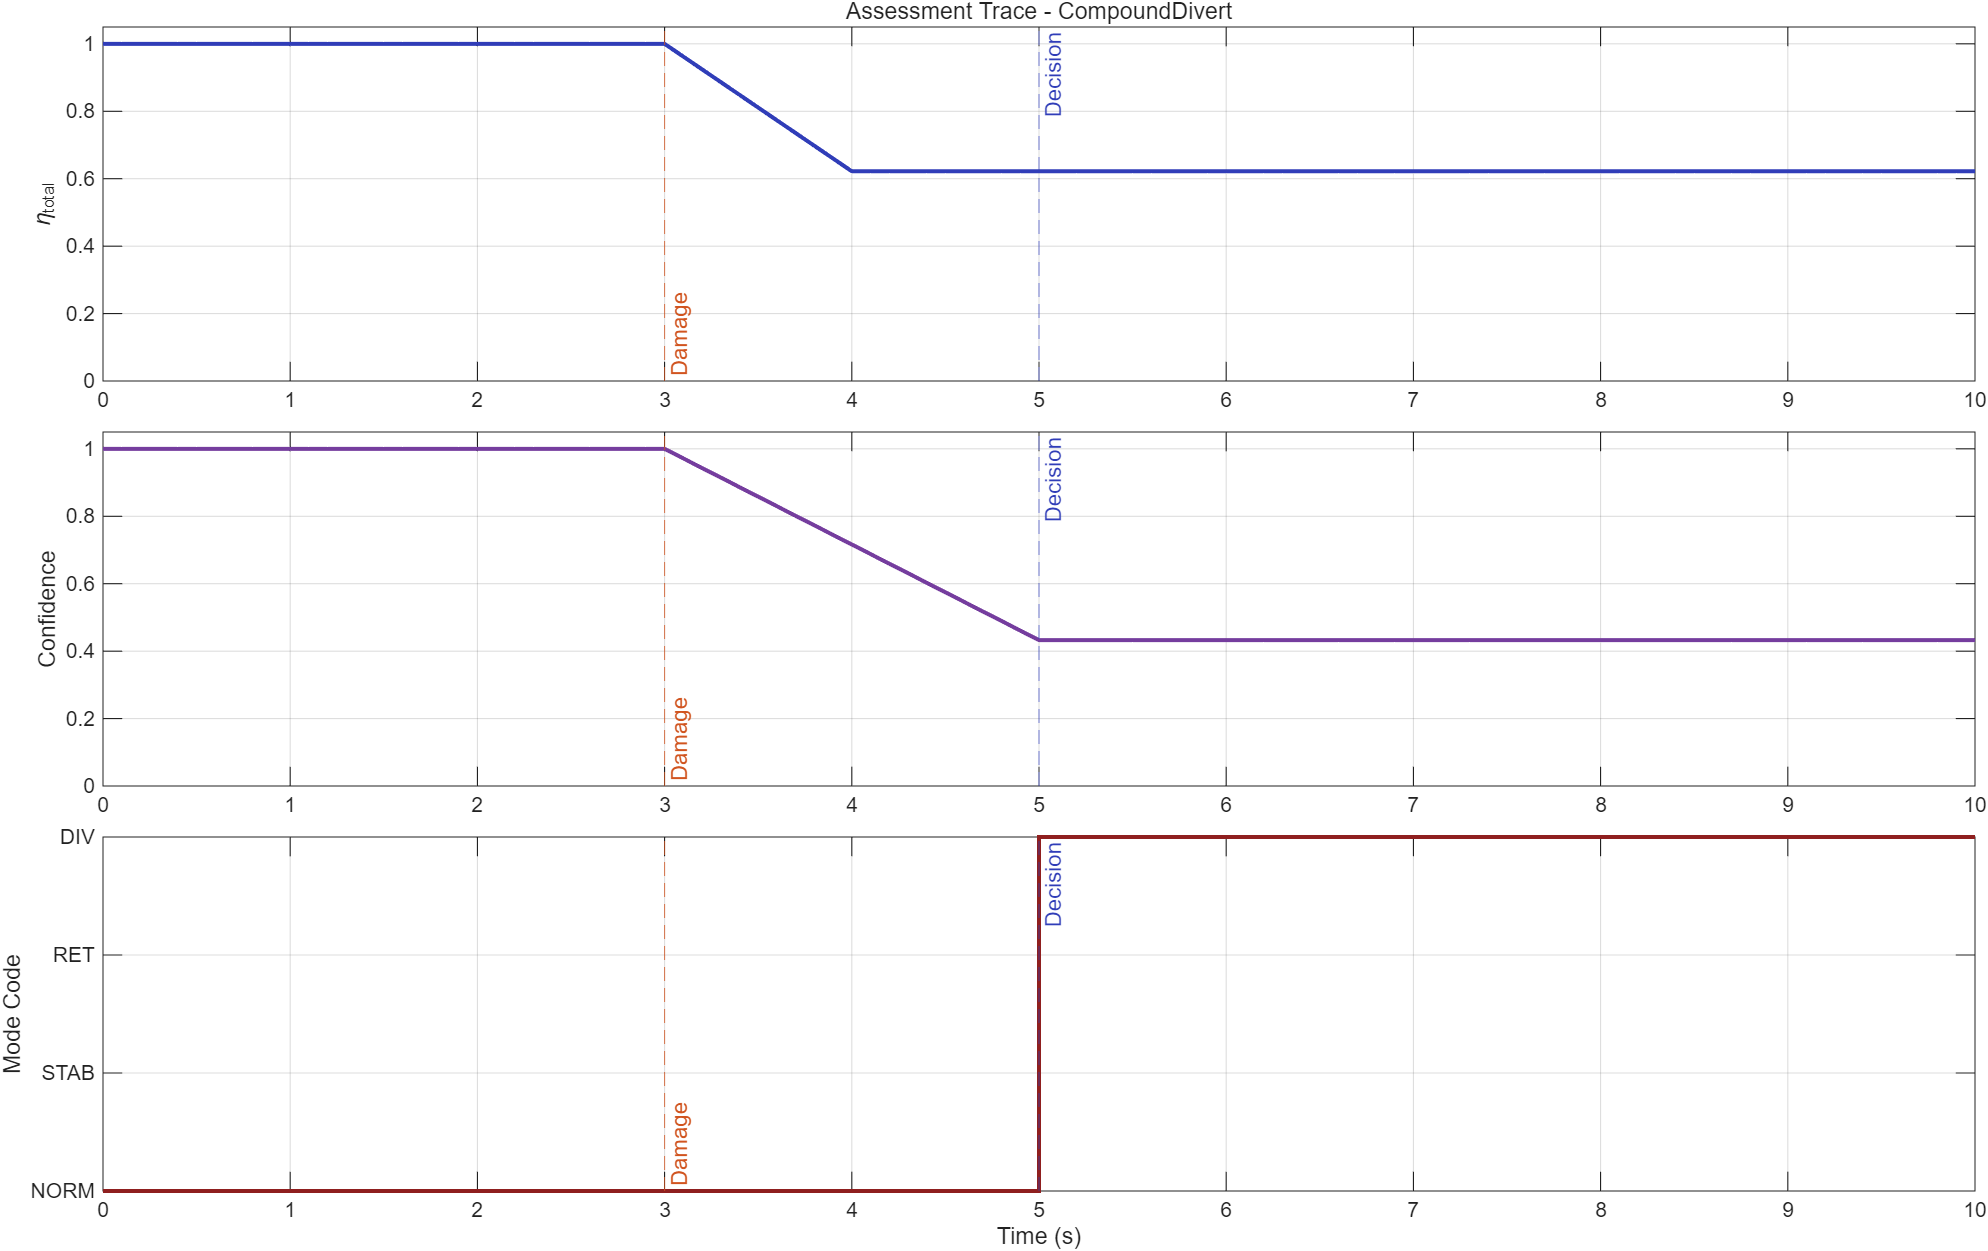
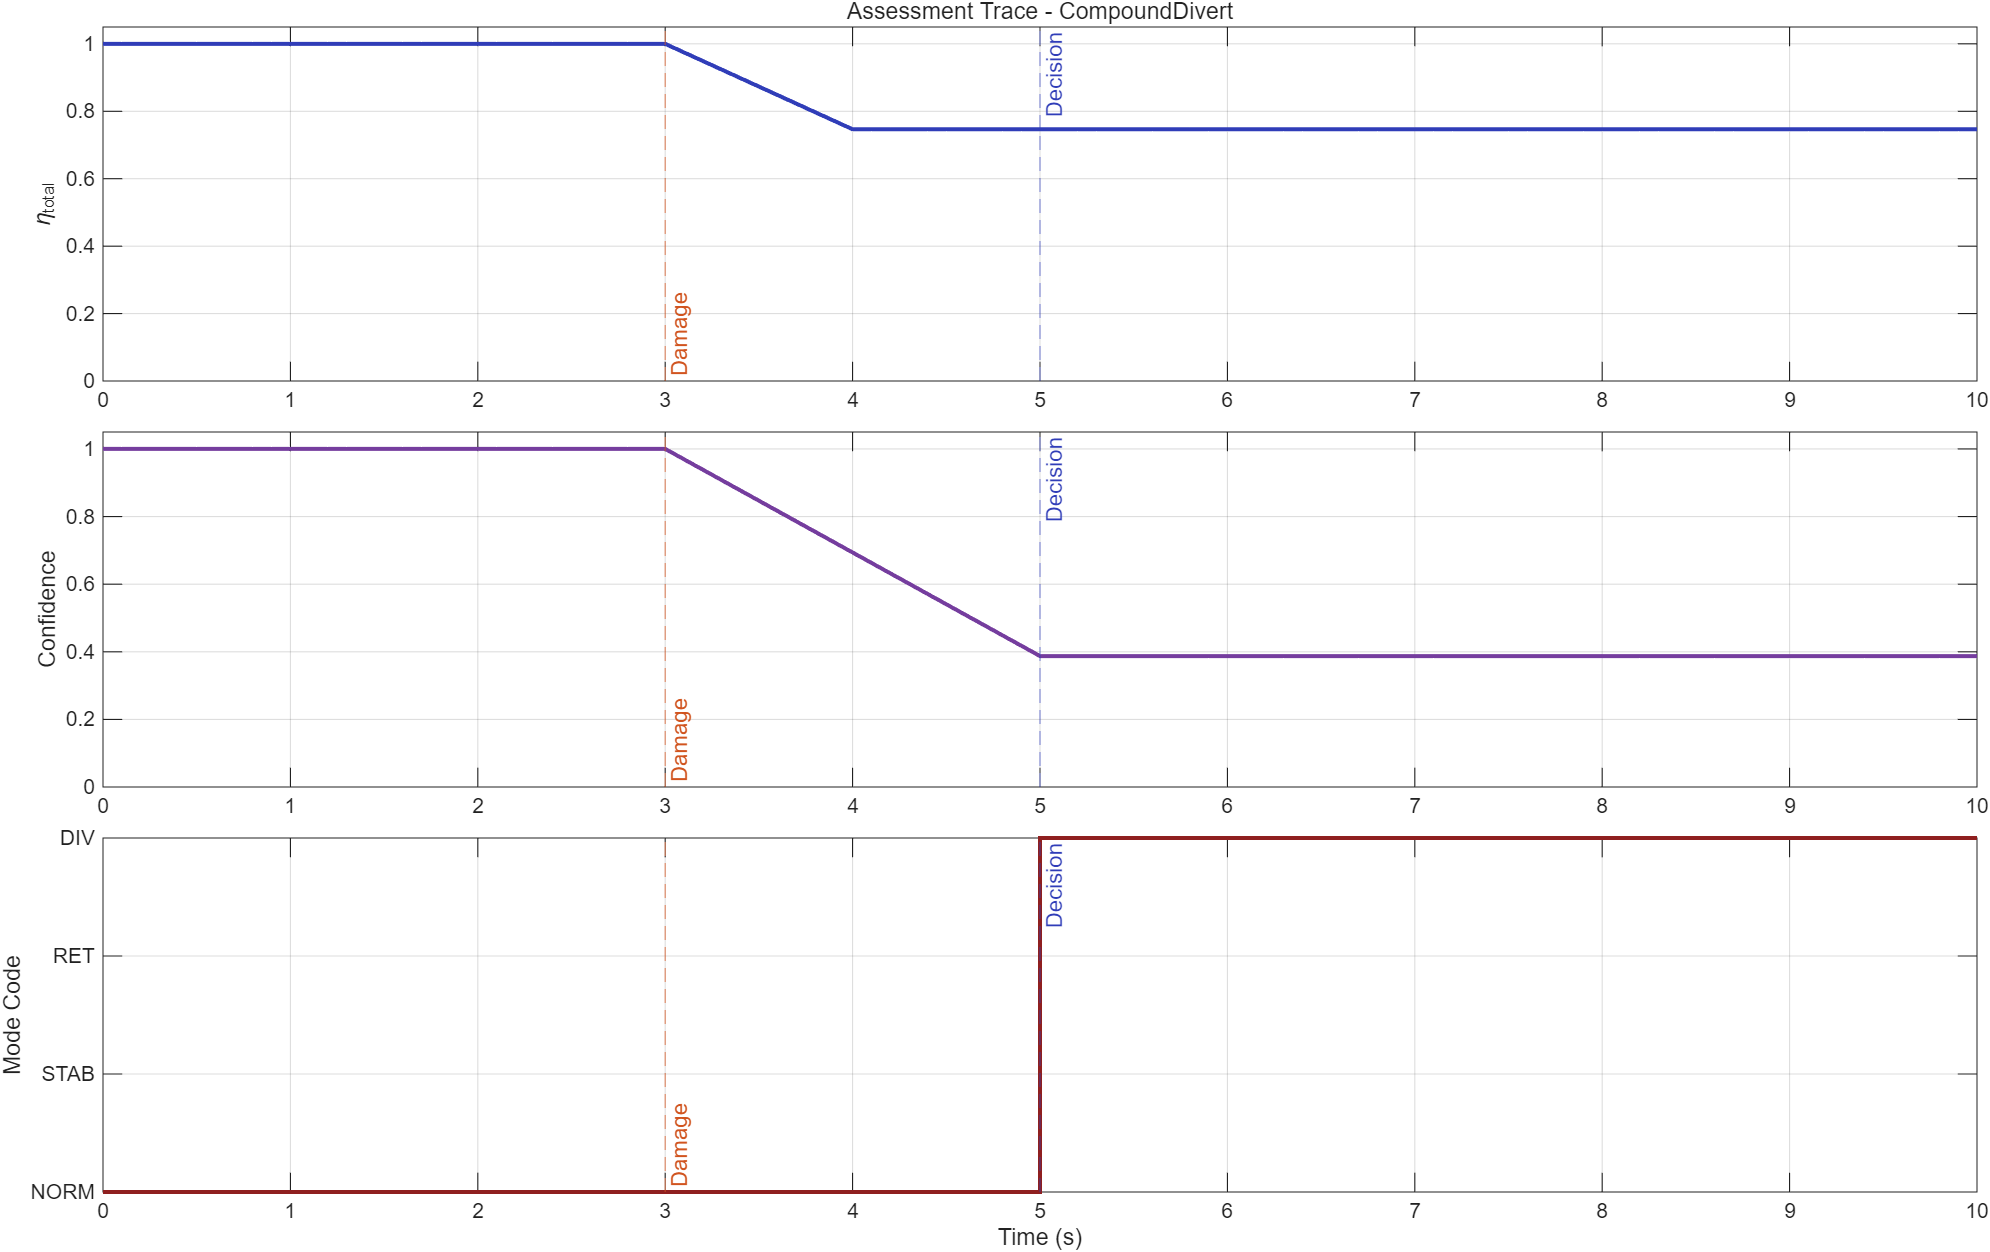
docs: sync §5 method and §7 structure across zh-CN and fr READMEs
The English README §5 and §7 were updated in the previous commit to point
at the new functions/{utils,dynamics,identifier,decision,simulink_bridges,
scenarios}/ subdirectory layout. The Chinese and French translations only
received the new Quick Start block in that pass. This commit brings their
§5 (Method) function references and §7 (Repository Structure) descriptions
in line with the actual on-disk layout.

Also refresh results/demo_figures/*.png from a re-run of run_demo_scenario.

diff --git a/README.fr.md b/README.fr.md
@@ -207,7 +207,7 @@ Ce vecteur est la source de tout le drame numérique du projet, ce qui a au moin
 
 Le projet utilise un prédicteur nominal simplifié pour estimer ce que l'avion **aurait dû faire** s'il était resté à peu près sain :
 
-- `functions/predict_nominal_response.m`
+- `functions/dynamics/predict_nominal_response.m`
 
 Ce n'est pas un observateur optimal rigoureux.  
 C'est plutôt l'équivalent de :
@@ -218,11 +218,11 @@ C'est plutôt l'équivalent de :
 
 Les résidus sont générés par :
 
-- `functions/compute_sensor_residuals.m`
+- `functions/dynamics/compute_sensor_residuals.m`
 
 Le filtrage des résidus est géré par :
 
-- `functions/filter_residual_sequence.m`
+- `functions/dynamics/filter_residual_sequence.m`
 
 Les canaux résiduels actuels incluent :
 
@@ -236,7 +236,7 @@ Les canaux résiduels actuels incluent :
 
 Point d'entrée de construction des caractéristiques :
 
-- `functions/build_identifier_features.m`
+- `functions/identifier/build_identifier_features.m`
 
 Modes représentatifs :
 
@@ -253,9 +253,9 @@ Modes représentatifs :
 
 Fonctions principales d'entraînement et d'inférence :
 
-- `functions/get_identifier_model_config.m`
-- `functions/train_damage_identifier.m`
-- `functions/run_damage_identifier.m`
+- `functions/identifier/get_identifier_model_config.m`
+- `functions/identifier/train_damage_identifier.m`
+- `functions/identifier/run_damage_identifier.m`
 
 Familles de modèles actuellement disponibles :
 
@@ -274,9 +274,9 @@ eta_hat = [eta_roll_hat, eta_pitch_hat, eta_yaw_hat, eta_total_hat]
 
 Chaîne centrale d'évaluation :
 
-- `functions/compute_control_authority_metrics.m`
-- `functions/evaluate_trim_feasibility.m`
-- `functions/decision_manager.m`
+- `functions/decision/compute_control_authority_metrics.m`
+- `functions/decision/evaluate_trim_feasibility.m`
+- `functions/decision/decision_manager.m`
 
 Modes de décision :
 
@@ -389,16 +389,40 @@ Les graphiques statistiques complémentaires restent dans `results/figures/`; le
   Modèle Simulink principal et interfaces de sous-systèmes.
 
 - `functions/`  
-  Sémantique du dommage, prédiction, traitement des résidus, construction des caractéristiques, identification, évaluation de la contrôlabilité et logique de décision.
+  Bibliothèque de fonctions, organisée par responsabilité :
+  - `functions/utils/` — petits utilitaires réutilisables (`clamp`,
+    `save_figure`, `get_project_params`, `project_root`,
+    `denormalize_targets`, `scenario_damage_severity`).
+  - `functions/dynamics/` — couche physique : `predict_nominal_response`,
+    `compute_sensor_residuals`, `filter_residual_sequence`,
+    `parse_damage_vector`, `map_damage_to_aero_effects`,
+    `damage_injection_interface`, `build_flight_condition`.
+  - `functions/identifier/` — caractéristiques, entraînement et inférence :
+    `build_identifier_features`, `train_damage_identifier`,
+    `run_damage_identifier`, `simulate_identifier_timeseries`,
+    `get_identifier_model_config`, `get_identifier_target_config`.
+  - `functions/decision/` — métriques de contrôlabilité, faisabilité de
+    l'équilibrage, gestionnaire de décision, pipeline d'évaluation en ligne.
+  - `functions/simulink_bridges/` — fonctions appelées depuis les blocs
+    Interpreted MATLAB Function du modèle Simulink (`damage_output_vector`,
+    `decision_command_vector`, `online_identifier_placeholder_vector`,
+    `simple_aircraft_force_moment_model`, `visualization_mode_proxy`).
+  - `functions/scenarios/` — constructeurs de scénarios partagés.
 
 - `scripts/`  
-  Points d'entrée pour génération de données, entraînement, évaluation, validation, visualisation et export de diagrammes.
+  Points d'entrée pour génération de données, entraînement, évaluation,
+  validation, visualisation, export de diagrammes et (`build_main_model`)
+  câblage du modèle Simulink.
 
 - `data/`  
-  Jeux de données de recherche générés.
+  Jeux de données de recherche. Les `.mat` ne sont plus suivis par git ;
+  exécuter `generate_identifier_dataset` pour les régénérer localement.
 
 - `results/`  
-  Figures, sorties benchmark, résumés et artefacts d'évaluation en boucle fermée.
+  Figures, sorties benchmark, résumés et artefacts d'évaluation en boucle
+  fermée. La majorité du contenu est régénéré par les scripts d'analyse et
+  ignoré par git ; `results/demo_figures/` est l'ensemble curé que le
+  README intègre.
 
 - `docs/`  
   Documentation détaillée et sources markdown des diagrammes.

diff --git a/README.zh-CN.md b/README.zh-CN.md
@@ -203,22 +203,22 @@ theta_d in R^(12 x 1)，每个分量通常取值在 [0, 1]
 
 项目使用一个简化名义预测器来估计飞行器在“相对健康”情况下本来应该怎么飞：
 
-- `functions/predict_nominal_response.m`
+- `functions/dynamics/predict_nominal_response.m`
 
 它不是严格意义上的最优观测器。  
 它更像是在问：
 
-> “飞机同志，你正常情况下应该这样飞。你现在为什么突然有自己的想法了？” 🤨
+> “飞机同志,你正常情况下应该这样飞。你现在为什么突然有自己的想法了？” 🤨
 
 ### 5.2 残差生成与滤波
 
 残差生成函数：
 
-- `functions/compute_sensor_residuals.m`
+- `functions/dynamics/compute_sensor_residuals.m`
 
 残差滤波函数：
 
-- `functions/filter_residual_sequence.m`
+- `functions/dynamics/filter_residual_sequence.m`
 
 当前残差通道包括：
 
@@ -232,7 +232,7 @@ theta_d in R^(12 x 1)，每个分量通常取值在 [0, 1]
 
 特征构造入口：
 
-- `functions/build_identifier_features.m`
+- `functions/identifier/build_identifier_features.m`
 
 代表性的特征模式包括：
 
@@ -249,9 +249,9 @@ theta_d in R^(12 x 1)，每个分量通常取值在 [0, 1]
 
 核心训练与推理函数：
 
-- `functions/get_identifier_model_config.m`
-- `functions/train_damage_identifier.m`
-- `functions/run_damage_identifier.m`
+- `functions/identifier/get_identifier_model_config.m`
+- `functions/identifier/train_damage_identifier.m`
+- `functions/identifier/run_damage_identifier.m`
 
 当前支持的模型类型包括：
 
@@ -270,9 +270,9 @@ eta_hat = [eta_roll_hat, eta_pitch_hat, eta_yaw_hat, eta_total_hat]
 
 核心评估链路：
 
-- `functions/compute_control_authority_metrics.m`
-- `functions/evaluate_trim_feasibility.m`
-- `functions/decision_manager.m`
+- `functions/decision/compute_control_authority_metrics.m`
+- `functions/decision/evaluate_trim_feasibility.m`
+- `functions/decision/decision_manager.m`
 
 决策模式包括：
 
@@ -384,16 +384,38 @@ eta_hat = [eta_roll_hat, eta_pitch_hat, eta_yaw_hat, eta_total_hat]
   Simulink 主模型及其接口子系统。
 
 - `functions/`  
-  损伤语义、预测、残差处理、特征构造、识别、可控性评估与决策逻辑。
+  按职责划分的库函数子目录:
+  - `functions/utils/` — 通用小工具(`clamp`、`save_figure`、
+    `get_project_params`、`project_root`、`denormalize_targets`、
+    `scenario_damage_severity`)。
+  - `functions/dynamics/` — 物理层:`predict_nominal_response`、
+    `compute_sensor_residuals`、`filter_residual_sequence`、
+    `parse_damage_vector`、`map_damage_to_aero_effects`、
+    `damage_injection_interface`、`build_flight_condition`。
+  - `functions/identifier/` — 特征构造、训练与推理:
+    `build_identifier_features`、`train_damage_identifier`、
+    `run_damage_identifier`、`simulate_identifier_timeseries`、
+    `get_identifier_model_config`、`get_identifier_target_config`。
+  - `functions/decision/` — 可控性指标、配平可行性、决策管理器、
+    在线评估流水线。
+  - `functions/simulink_bridges/` — Simulink Interpreted MATLAB Function
+    桥接函数(`damage_output_vector`、`decision_command_vector`、
+    `online_identifier_placeholder_vector`、
+    `simple_aircraft_force_moment_model`、`visualization_mode_proxy`)。
+  - `functions/scenarios/` — 跨脚本共享的场景构造函数。
 
 - `scripts/`  
-  数据生成、训练、评估、验证、可视化和图表导出的入口脚本。
+  数据生成、训练、评估、验证、可视化、图表导出的入口脚本,
+  外加 `build_main_model`(Simulink 模型布线)。
 
 - `data/`  
-  研究用数据集。
+  研究用数据集。该目录下的 `.mat` 文件已不再随 git 跟踪,
+  本地缺失时执行 `generate_identifier_dataset` 即可重建。
 
 - `results/`  
-  图表、benchmark 输出、汇总表和闭环评估产物。
+  图表、benchmark 输出、汇总表和闭环评估产物。绝大部分内容由分析脚本
+  自动生成,已被 git 忽略;`results/demo_figures/` 是 README 嵌入的
+  精选 demo 图片,会随仓库一起跟踪。
 
 - `docs/`  
   更详细的文档与流程图 Markdown 源文件。
@@ -537,4 +559,4 @@ export_model_snapshots
 
 那这个仓库会说：
 
-> “这是代码、数据、图表、流程、决策、后果，以及一小撮航空航天风味的存在主义。” 🚀
+> “这是我的代码😊"
